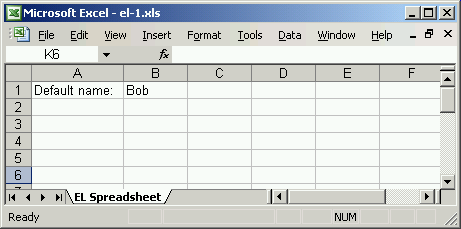
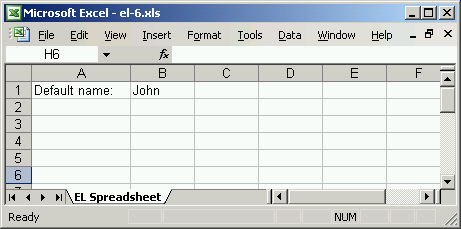
Added forEach to el example.

diff --git a/sstemplates/src/com/carbonfive/sstemplates/package.html b/sstemplates/src/com/carbonfive/sstemplates/package.html
@@ -192,19 +192,21 @@ When using SsTemplates in a servlet container, an SST file has access to the sam
 <code>el.sst</code>
 
 <pre class="code">
-&lt;workbook>
-  &lt;set var="name" value="${empty param.name ? 'Bob' : param.name}"/>
+&lt;workbook xmlns="http://carbonfive.com/schema/sstemplates">
   &lt;set var="exists" value="${!empty param.name}"/>
-  
+
   &lt;sheet name="EL Spreadsheet">
     &lt;row>
-      &lt;if test="${exists}">
-        &lt;cell>Name param provided:&lt;/cell>
-      &lt;/if>
       &lt;if test="${!exists}">
         &lt;cell>Default name:&lt;/cell>
+        &lt;cell>John&lt;/cell>
       &lt;/if>
-      &lt;cell>${name}&lt;/cell>
+      &lt;if test="${exists}">
+        &lt;cell>Provided names:&lt;/cell>
+        &lt;forEach var="name" items="${paramValues.name}">
+          &lt;cell>${name}&lt;/cell>
+        &lt;/forEach>
+      &lt;/if>
     &lt;/row>
   &lt;/sheet>
 &lt;/workbook>
@@ -214,7 +216,7 @@ When using SsTemplates in a servlet container, an SST file has access to the sam
 <img src="doc-files/el-1.png" alt="EL Example">
 </p>
 
-<code>el.sst?name=Sue</code>
+<code>el.sst?name=Sue&name=Bob</code>
 
 <p>
 <img src="doc-files/el-2.png" alt="EL Example">
